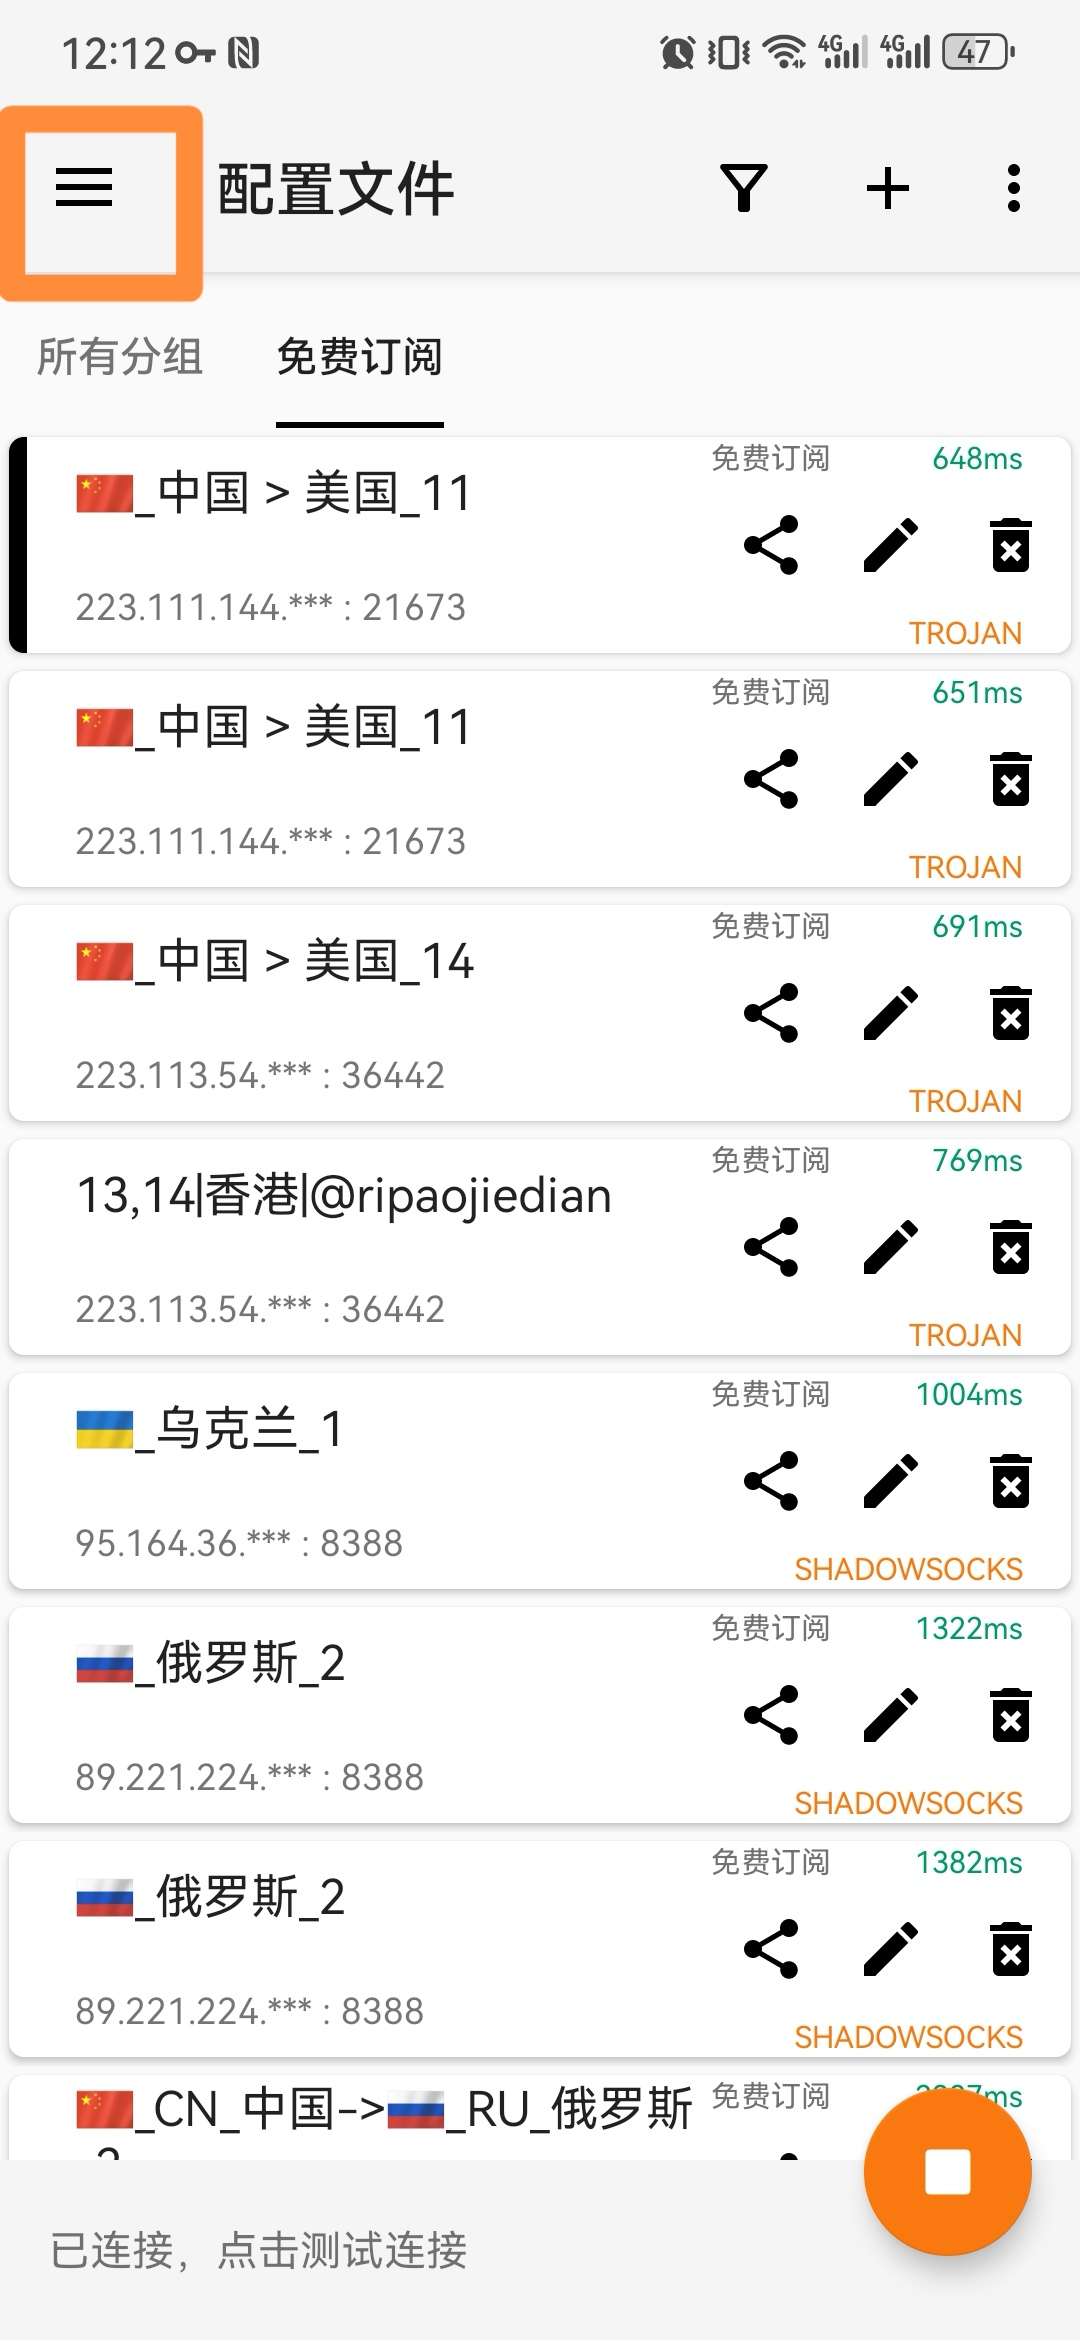
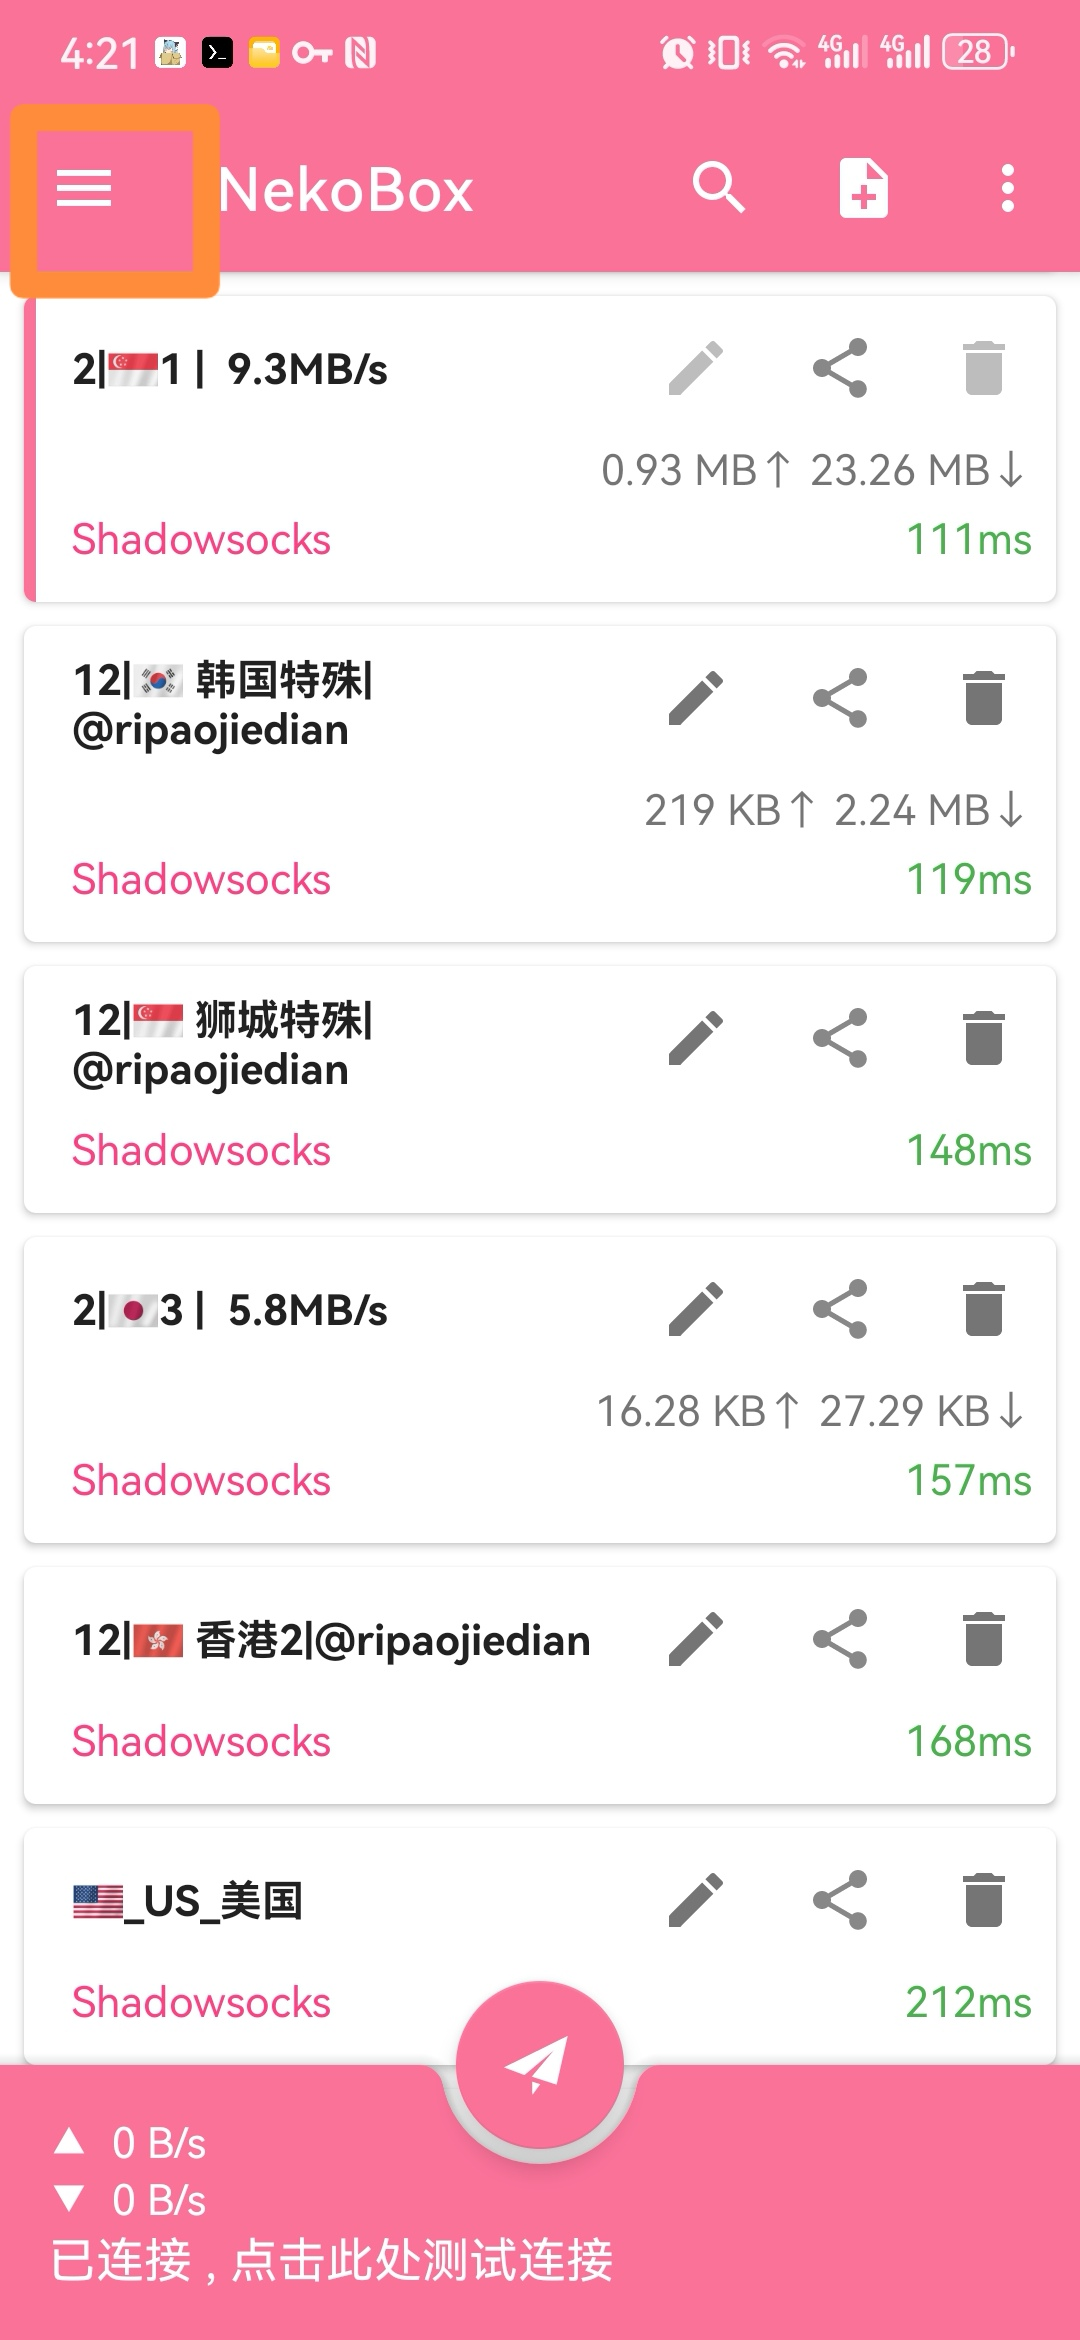
add nekoBox

diff --git a/nekoBox.html b/nekoBox.html
@@ -1,0 +1,100 @@
+<!DOCTYPE html>
+<html lang="zh">
+
+<head>
+    <meta charset="UTF-8">
+    <meta name="viewport" content="width=device-width, initial-scale=1.0">
+
+    <!-- 核心SEO标签 -->
+    <title>Android NekoBox 使用教程 | 手机免费代理设置指南 - VPN解决方案</title>
+    <meta name="description" content="手把手教学Android手机使用NekoBox配置免费代理服务。从客户端安装到节点订阅，掌握移动端多协议代理设置技巧，实现安全稳定的全球网络访问。">
+
+    <!-- 关键词优化 -->
+    <meta name="keywords" content="Android代理设置,NekoBox教程,手机VPN搭建,移动端多协议代理,Shadowsocks安卓配置,Trojan手机版,免root翻墙">
+
+    <!-- 作者/品牌 -->
+    <meta name="author" content="Boss1871814749">
+
+    <!-- 防止重复内容 -->
+    <link rel="canonical" href="https://www.vpnpersonal.com/nekoBox">
+
+    <!-- 社交媒体优化 -->
+    <meta property="og:title" content="Android NekoBox 使用教程 | 手机免费代理设置指南">
+    <meta property="og:description" content="Android系统NekoBox完整配置教程，支持V2Ray/Shadowsocks/Trojan多协议，无需root实现安全稳定的全球网络访问。">
+    <meta name="twitter:card" content="summary_large_image">
+
+    <link rel="stylesheet" href="styles.css">
+</head>
+
+<body>
+
+    <div class="sidebar">
+        <h2>菜单</h2>
+        <a href="index.html" target="_parent">主页</a>
+        <a href="v2rayN.html" target="_parent">Windows教程</a>
+        <a href="nekoBox.html" target="_parent">Andoid教程</a>
+        <a href="v2rayU.html" target="_parent">macOS教程</a>
+        <a href="v2rayN-custom.html" target="_parent">v2rayN白嫖定制化</a>
+    </div>
+
+    <header>
+        <h1 style="font-size: 1.5em; margin: 0;">安全、快速的 VPN 解决方案</h1>
+        <p style="font-size: 0.9em; margin: 0;">保护您的隐私，畅享全球互联网</p>
+    </header>
+
+    <div class="content">
+        <div class="content_area">
+            <div class="container">
+                <h2>NekoBox 教程</h2>
+                <p>NekoBox是一个功能强大的网络代理工具，支持多种协议和传输方式。</p>
+                <h2>NekoBox使用教程</h2>
+
+                <h3>第一步：适用平台</h3>
+                <p>Android 用户可以下载 NekoBox客户端，点击以下链接：<a
+                        href="https://ghfast.top/https://github.com/liliBestCoder/vpn/raw/refs/heads/main/binary/NekoBox.apk"
+                        download>NekoBox.apk</a></p>
+                <h3>第二步：配置 NekoBox</h3>
+                <ol>
+                    <li>下载 app 通过文件管理器安装 app。</li>
+                    <img src="images/6.jpg" alt="安装" class="phone" />
+                    <li>打开 app 选择左上角的<strong>三个横条</strong>打开左滑菜单。</li>
+                    <img src="images/7.jpg" alt="打开菜单" class="phone" />
+                    <li>请联系我们购买订阅链接。得到链接后新增订阅。然后点击<strong>分组</strong>，再点击右上角的<strong>加号</strong>新建分组。</li>
+                    <img src="images/8.jpg" alt="新建订阅分组" class="phone" />
+                    <img src="images/9.jpg" alt="新建订阅分组" class="phone" />
+                    <li>点击<strong>分组类型</strong>选择<strong>订阅</strong>点击<strong>订阅链接</strong>把得到的链接输入进去, 启用<strong>自动更新</strong>。点击右上角<strong>对号</strong>保存分组设置。</li>
+                    <img src="images/10.jpg" alt="新建订阅分组" class="phone" />
+
+                    <img src="images/19.jpg" alt="新建订阅分组" class="phone"/>  
+                    <img src="images/20.jpg" alt="新建订阅分组" class="phone"/>   
+                    <img src="images/21.jpg" alt="新建订阅分组" class="phone"/>  
+                    <img src="images/22.jpg" alt="新建订阅分组" class="phone"/>  
+                <li>点击右上角竖着的<strong>三个点</strong>，点击<strong>更新当前组订阅</strong>，等待更新完成。</li>
+                    <img src="images/11.jpg" alt="更新当前组订阅" class="phone" />
+                    <img src="images/12.jpg" alt="更新当前组订阅" class="phone" />
+                </ol>
+                <h3>第三步：如何选择可用的节点</h3>
+                <ol>
+                    <li>再点击右上角竖着的<strong>三个点</strong>，点击<strong>连接测试</strong>，选择<strong>URL Test</strong> 等待测试完成。</li>
+                    <img src="images/11.jpg" alt="连接测试" class="phone" />
+                    <img src="images/13.jpg" alt="连接测试" class="phone" />
+                    <img src="images/14.jpg" alt="连接测试" class="phone" />                    <li>再点击右上角竖着的<strong>三个点</strong>，点击<strong>排序</strong> 选择<strong>以延时</strong>。</li>
+                    <img src="images/11.jpg" alt="按测试结果排序" class="phone" />
+                    <img src="images/15.jpg" alt="按测试结果排序" class="phone" />
+                    <img src="images/16.jpg" alt="按测试结果排序" class="phone" />                    <li>等待测试完成，选择延迟(绿颜色的带<strong>ms</strong>字样的)较小的且不能为负值的节点，单击即可。</li>
+                    <li>点击左上角的三个横条，打开左滑菜单，点击设置，打开分应用代理，选择自己需要走代理的 app 打勾就行。</li>
+                    <img src="images/7.jpg" alt="分应用代理" class="phone" />
+                    <img src="images/17.jpg" alt="分应用代理" class="phone" />
+                    <li>打开浏览器，访问 Google 试下吧。</li>
+                </ol>
+            </div>
+        </div>
+    </div>
+
+    <footer>
+        <p style="margin: 0;">&copy; 2024 VPN 解决方案. 保留所有权利.</p>
+    </footer>
+
+</body>
+
+</html>

diff --git a/v2rayN-custom.html b/v2rayN-custom.html
@@ -1,4 +1,4 @@
-<!DOCTYPE html>
+<!DOCTYPE html>
 <html lang="zh">
 
 <head>
@@ -9,10 +9,10 @@
     <meta name="keywords" content="白嫖VPN,V2rayN定制化,免费代理设置,全球互联网访问,动态节点切换,文档优先模式,下载优先模式,多服务器最低延迟,多服务器负载均衡">
     <meta name="author" content="Boss1871814749">
     <meta name="robots" content="index, follow">
-    <link rel="canonical" href="https://site.vpn365.online/v2rayN-custom">
+    <link rel="canonical" href="https://www.vpnpersonal.com/v2rayN-custom">
     <meta property="og:title" content="白嫖 V2rayN 定制化教程 | 免费稳定访问全球互联网">
     <meta property="og:description" content="免费定制化V2rayN实现全球互联网稳定访问，动态切换最优节点提升上网体验。">
-    <meta property="og:image" content="https://site.vpn365.online/images/v2rayN-og.jpg">
+    <meta property="og:image" content="https://www.vpnpersonal.com/images/v2rayN-og.jpg">
     <meta name="twitter:card" content="summary_large_image">
     <link rel="stylesheet" href="styles.css">
 </head>
@@ -23,7 +23,7 @@
         <h2>菜单</h2>
         <a href="index.html" target="_parent">主页</a>
         <a href="v2rayN.html" target="_parent">Windows教程</a>
-        <a href="v2rayNG.html" target="_parent">Andoid教程</a>
+        <a href="nekoBox.html" target="_parent">Andoid教程</a>
         <a href="v2rayU.html" target="_parent">macOS教程</a>
         <a href="v2rayN-custom.html" target="_parent">v2rayN白嫖定制化</a>
     </div>
@@ -47,7 +47,7 @@
                 <h2>使用方法</h2>
                 <p>使用也很简单：打开定制化开发的
                     V2rayN，然后点击菜单工具栏里的模式选择，选择"文档优先"或"下载优先"。等待大约一分钟，系统将自动配置好，您就可以直接使用了。后续系统会动态切换节点，确保最佳的上网体验。</p>
-                <img src="images/16.png" alt="模式选择" />
+                <img src="images/100.png" alt="模式选择" />
 
                 <h2>优点</h2>
                 <ul>

diff --git a/v2rayU.html b/v2rayU.html
@@ -1,4 +1,4 @@
-<!DOCTYPE html>
+<!DOCTYPE html>
 <html lang="zh">
 
 <head>
@@ -18,12 +18,12 @@
     <meta name="author" content="Boss1871814749">
     
     <!-- 防止重复内容 -->
-    <link rel="canonical" href="https://site.vpn365.online/v2rayU">
+    <link rel="canonical" href="https://www.vpnpersonal.com/v2rayU">
     
     <!-- 社交媒体优化 -->
     <meta property="og:title" content="macOS V2RayU 使用教程 | 苹果电脑免费代理设置指南">
     <meta property="og:description" content="macOS系统V2RayU完整配置教程，支持V2Ray/Shadowsocks/Trojan多协议，无需开发者模式实现安全稳定的全球网络访问。">
-    <meta property="og:image" content="https://site.vpn365.online/images/v2rayU-mac-og.jpg">
+    <meta property="og:image" content="https://www.vpnpersonal.com/images/v2rayU-mac-og.jpg">
     <meta name="twitter:card" content="summary_large_image">
 
     <link rel="stylesheet" href="styles.css">
@@ -35,7 +35,7 @@
         <h2>菜单</h2>
         <a href="index.html" target="_parent">主页</a>
         <a href="v2rayN.html" target="_parent">Windows教程</a>
-        <a href="v2rayNG.html" target="_parent">Andoid教程</a>
+        <a href="nekoBox.html" target="_parent">Andoid教程</a>
         <a href="v2rayU.html" target="_parent">macOS教程</a>
         <a href="v2rayN-custom.html" target="_parent">v2rayN白嫖定制化</a>
     </div>

diff --git a/v2rayN.html b/v2rayN.html
@@ -1,4 +1,4 @@
-<!DOCTYPE html>
+<!DOCTYPE html>
 <html lang="zh">
 
 <head>
@@ -16,12 +16,12 @@
     <meta name="author" content="Boss1871814749">
 
     <!-- 防止重复内容 -->
-    <link rel="canonical" href="https://site.vpn365.online/v2rayN">
+    <link rel="canonical" href="https://www.vpnpersonal.com/v2rayN">
 
     <!-- 社交媒体优化 -->
     <meta property="og:title" content="Windows V2rayN 使用教程 | 免费搭建稳定代理服务">
     <meta property="og:description" content="Windows系统V2rayN完整配置指南，支持V2Ray/Shadowsocks/Trojan多协议，免费实现安全稳定的全球网络访问。">
-    <meta property="og:image" content="https://site.vpn365.online/images/v2rayN-win-og.jpg">
+    <meta property="og:image" content="https://www.vpnpersonal.com/images/v2rayN-win-og.jpg">
     <meta name="twitter:card" content="summary_large_image">
 
     <link rel="stylesheet" href="styles.css">
@@ -33,7 +33,7 @@
         <h2>菜单</h2>
         <a href="index.html" target="_parent">主页</a>
         <a href="v2rayN.html" target="_parent">Windows教程</a>
-        <a href="v2rayNG.html" target="_parent">Andoid教程</a>
+        <a href="nekoBox.html" target="_parent">Andoid教程</a>
         <a href="v2rayU.html" target="_parent">macOS教程</a>
         <a href="v2rayN-custom.html" target="_parent">v2rayN白嫖定制化</a>
     </div>

diff --git a/index.html b/index.html
@@ -1,4 +1,4 @@
-<!DOCTYPE html>
+<!DOCTYPE html>
 <html lang="zh">
 
 <head>
@@ -19,7 +19,7 @@
         <h2>菜单</h2>
         <a href="index.html" target="_parent">主页</a>
         <a href="v2rayN.html" target="_parent">Windows教程</a>
-        <a href="v2rayNG.html" target="_parent">Andoid教程</a>
+        <a href="nekoBox.html" target="_parent">Andoid教程</a>
         <a href="v2rayU.html" target="_parent">macOS教程</a>
         <a href="v2rayN-custom.html" target="_parent">v2rayN白嫖定制化</a>
     </div>
@@ -51,7 +51,7 @@
                 <h3>支持的平台</h3>
                 <ul>
                     <li><strong>Windows:</strong> 使用 <strong>v2rayN</strong>，轻松配置，快速连接。</li>
-                    <li><strong>Android:</strong> 使用 <strong>V2RayNG</strong>，随时随地保护您的移动设备。</li>
+                    <li><strong>Android:</strong> 使用 <strong>NekoBox</strong>，随时随地保护您的移动设备。</li>
                     <li><strong>macOS:</strong> 使用 <strong>V2RayU</strong>，简单易用，完美兼容。</li>
                 </ul>
 
